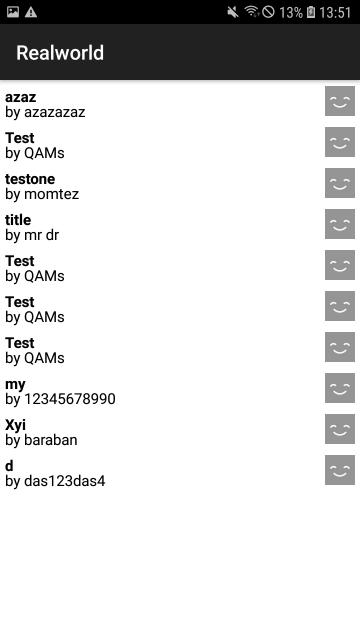
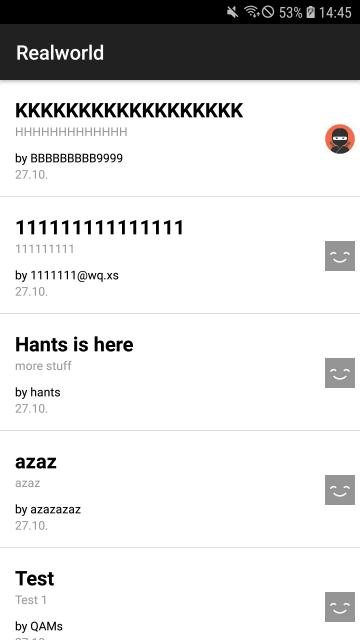
ui updates

diff --git a/app/controllers/index.js b/app/controllers/index.js
@@ -9,19 +9,28 @@ function onOpen(e) {
 
 		var listData = [];
 		_.each(data.articles, function(item) {
+
+			var d = new Date(item.createdAt);
+
 			listData.push({
 				title: {
 					text: item.title,
 				},
+				description: {
+					text: item.description,
+				},
 				author: {
 					text: "by " + item.author.username,
+				},
+				date: {
+					text: d.getDate() + "." + (d.getMonth() + 1) + "."
 				},
 				authorImage: {
 					image: item.author.image
 				},
 				properties: {
 					slug: item.slug,
-					height: 40
+					height: Ti.UI.SIZE
 				}
 			})
 		})

diff --git a/app/controllers/article.js b/app/controllers/article.js
@@ -7,8 +7,13 @@ function onOpen(e) {
 	}, function(data) {
 		// data
 		console.log(data);
+		var d = new Date(data.article.createdAt);
 		$.lbl_title.text = data.article.title;
+		$.lbl_description.text = data.article.description;
 		$.lbl_text.text = data.article.body;
+		$.img_author.image = data.article.author.image;
+		$.lbl_author.text = data.article.author.username;
+		$.lbl_date.text = d.getDate() + "." + (d.getMonth() + 1) + ".";
 	}, function(error) {
 		console.log(error.message);
 	})
